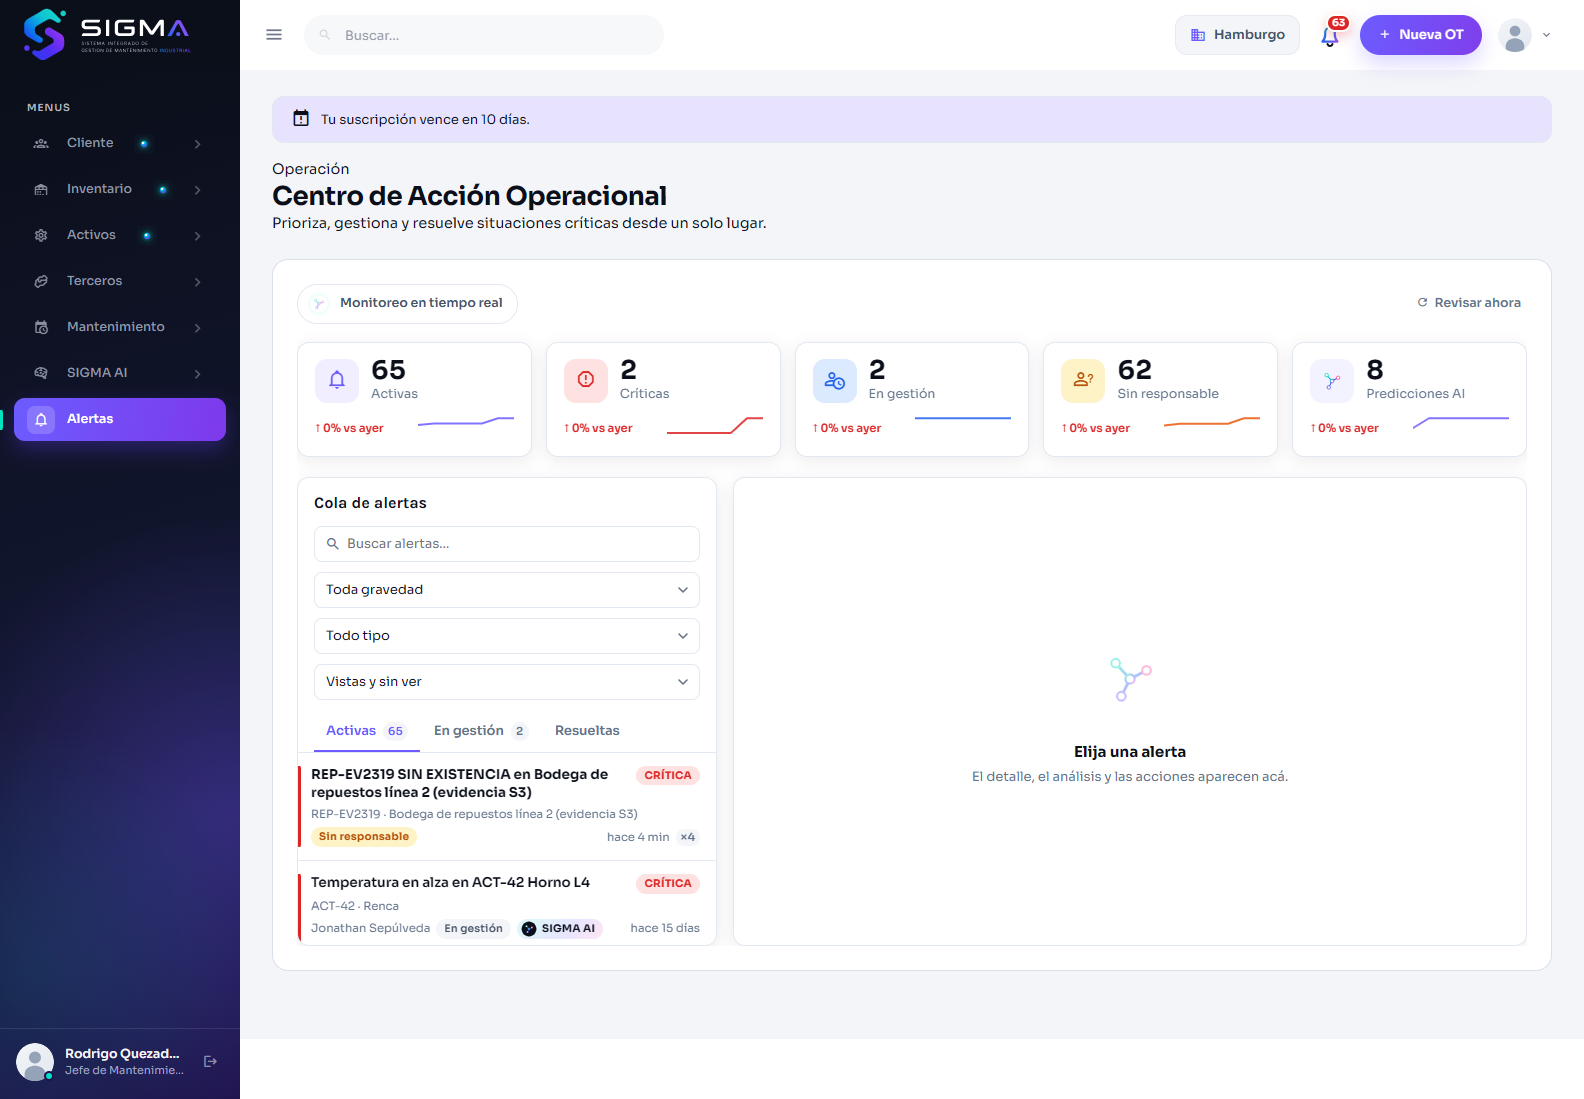
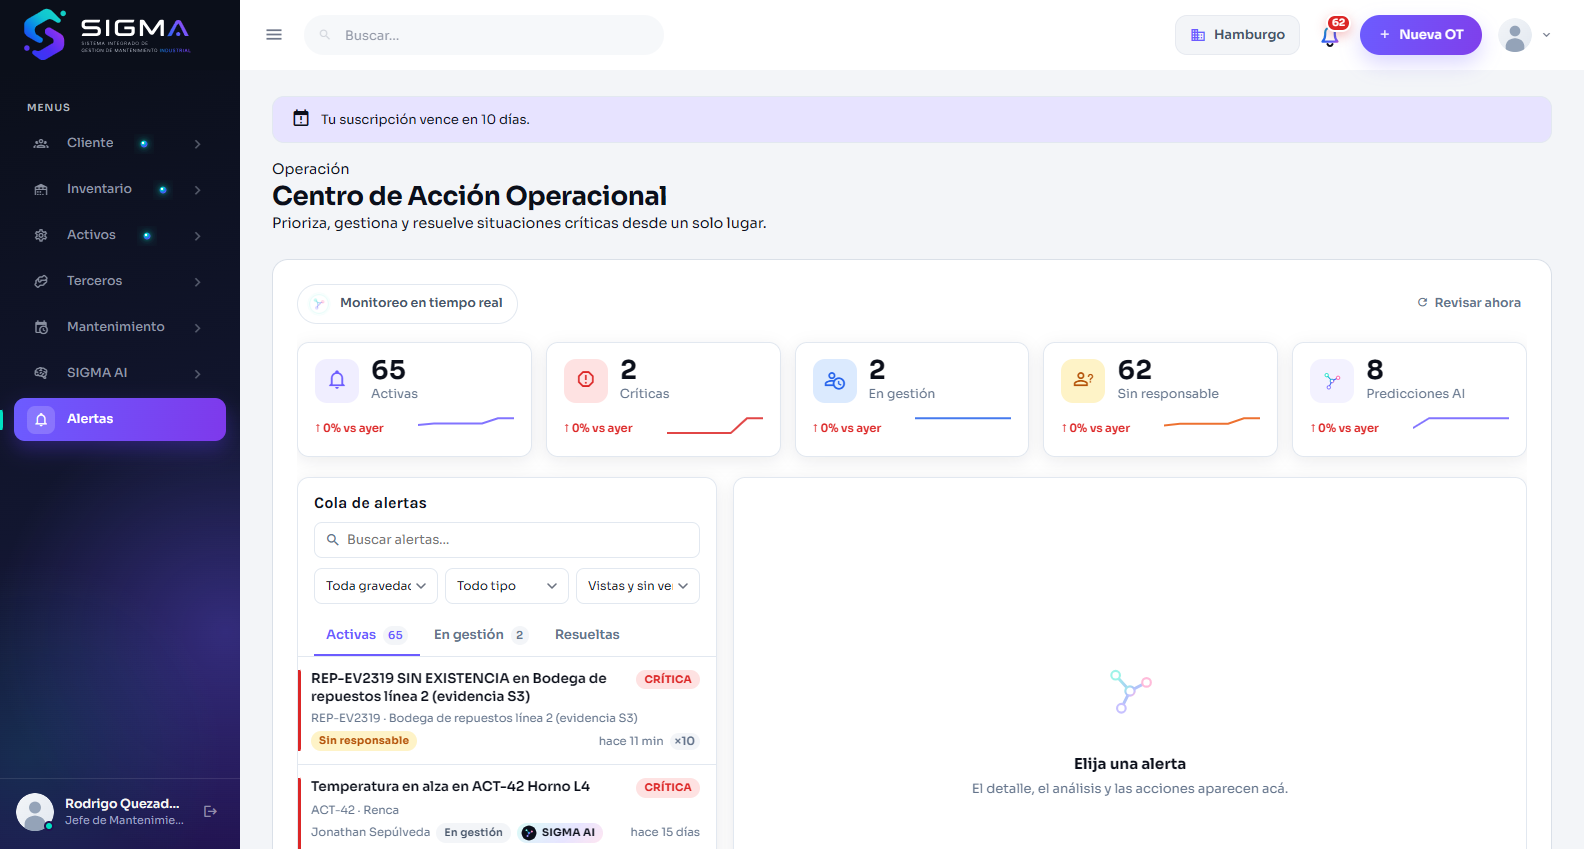
La bandeja de alertas: se limita la lista, no la pantalla
El primer intento forzo el bloque de dos columnas al alto de la ventana y
salio peor: la cabecera de la cola -titulo, buscador, tres desplegables
apilados y pestanas- se comia 260 px, asi que quedaban DOS alertas visibles
al lado de un panel de detalle vacio y altisimo.

Ahora se limita lo que de verdad crece y se recupera el espacio de donde
sobraba:
- Los tres filtros pasan a una sola fila. Apilados gastaban 120 px de alto
  que le faltaban a la lista; la cabecera baja de ~260 a 138 px.
- La lista tiene su propio tope -min(58vh, 620px)- y desplaza por dentro, asi
  que la pagina deja de medir varias pantallas.
- El detalle queda pegado arriba mientras se recorre la lista y mide lo mismo
  que la lista: al dejar que midiera su contenido, "Elija una alerta" era una
  tarjeta corta al lado de una columna larga y se leia como que faltaba algo.
  Hizo falta escribirlo como `.sg-cao > .sg-detalle` porque mas arriba hay un
  `min-height: 0` con esa misma especificidad que ganaba.

Se retira el calculo de alto por ventana que habia quedado en el JS.

diff --git a/Web/Intranet/Css/LookAndFeel/sigma-notificaciones.css b/Web/Intranet/Css/LookAndFeel/sigma-notificaciones.css
@@ -2821,44 +2821,53 @@
 .sg-cliente-op.is-actual { background: #f3f1ff; font-weight: 700; }
 .sg-cliente-op.is-actual .mdi-check { visibility: visible; }
 
+}
+
 /* ============================================================================
-   LA BANDEJA DE ALERTAS OCUPA LA VENTANA, NO LA ESTIRA
+   LA BANDEJA DE ALERTAS: SE LIMITA LA LISTA, NO LA PANTALLA
 
-   Con sesenta y cinco alertas la página medía varias pantallas: elegir una
-   de abajo y leer su detalle obligaba a subir, y los indicadores de arriba
-   se perdían de vista. Ahora el bloque mide lo que queda de ventana y lo que
-   se desplaza es cada columna por dentro.
+   El problema era que con sesenta y cinco alertas la cola crecía sin fin y la
+   página medía varias pantallas: elegir una de abajo y leer su detalle
+   obligaba a subir, y los indicadores se perdían de vista.
 
-   El alto lo calcula el navegador y lo escribe en `--sg-cao-alto`
-   (sigma-notificaciones-cao.js): depende de si hay aviso de suscripción y de
-   cuánto ocupen los filtros, y eso no se puede adivinar desde la hoja.
+   El primer intento fue forzar el bloque entero al alto de la ventana. Salió
+   peor: la cabecera de la cola -título, buscador, tres desplegables y
+   pestañas- se comía 260 px, así que quedaban dos alertas visibles al lado de
+   un panel de detalle vacío y altísimo.
+
+   Acá se limita lo que efectivamente crece —la lista— y se recupera espacio
+   de donde sobraba:
+
+   1. Los tres filtros en una fila. Apilados gastaban 120 px de alto que no
+      eran de nadie.
+   2. La lista tiene su tope y desplaza por dentro.
+   3. El detalle se queda pegado arriba mientras uno recorre la lista.
    ============================================================================ */
-.sg-cao {
-    height: var(--sg-cao-alto, calc(100vh - 270px));
-    /* El piso es bajo a proposito: con la cabecera de indicadores y filtros
-       ocupando casi 480 px, un minimo de 420 empujaba el bloque fuera de la
-       ventana y la pagina volvia a desplazarse. Bajo este alto las columnas
-       se apilan por la media query y la pagina scrollea de corrido, que es
-       lo correcto cuando no hay sitio para dos paneles. */
-    min-height: 300px;
-    align-items: stretch;
+
+/* ---- Los filtros, en una fila ---- */
+.sg-cola-cab {
+    display: grid;
+    grid-template-columns: 1fr;
+    gap: 9px;
+    padding: 14px 14px 10px;
+}
+.sg-cola-cab .sg-cola-titulo { margin: 0; }
+.sg-cola-buscar { width: 100%; }
+.sg-cola-filtros {
+    display: grid;
+    grid-template-columns: repeat(3, minmax(0, 1fr));
+    gap: 7px;
+}
+.sg-cola-cab .sg-select {
+    width: 100%;
+    min-width: 0;
+    padding-right: 26px;
+    font-size: 12px;
 }
 
-.sg-cola,
-.sg-detalle {
-    display: flex;
-    flex-direction: column;
-    min-height: 0;
-    overflow: hidden;
-}
-
-/* La cabecera de la cola -título, buscador y filtros- se queda fija y solo
-   corre la lista: filtrar mientras se busca es el gesto más repetido de esta
-   pantalla. */
-.sg-cola-cab { flex: 0 0 auto; }
+/* ---- La lista: tope propio y su barra ---- */
 .sg-cola-lista {
-    flex: 1 1 auto;
-    min-height: 0;
+    max-height: min(58vh, 620px);
     overflow-y: auto;
     overscroll-behavior: contain;
     scrollbar-color: #c9c1f6 transparent;
@@ -2867,31 +2876,30 @@
 .sg-cola-lista::-webkit-scrollbar { width: 6px; }
 .sg-cola-lista::-webkit-scrollbar-thumb { border-radius: 99px; background: #cbc4ed; }
 
-/* El detalle también: con la línea de tiempo y el análisis predictivo es más
-   largo que la ventana en cuanto la alerta tiene historia. */
-.sg-detalle {
-    overflow-y: auto;
-    overscroll-behavior: contain;
-    scrollbar-color: #c9c1f6 transparent;
-    scrollbar-width: thin;
-}
-.sg-detalle::-webkit-scrollbar { width: 6px; }
-.sg-detalle::-webkit-scrollbar-thumb { border-radius: 99px; background: #cbc4ed; }
+/* ---- El detalle acompaña ----
+   Pegado arriba mientras se recorre la lista: sin esto, elegir la alerta
+   cuarenta dejaba el detalle fuera de la pantalla y había que volver a subir
+   para leerlo. */
+@media (min-width: 1101px) {
+    .sg-cao { align-items: start; }
+    /* Con `.sg-detalle` a secas no alcanza: mas arriba hay un
+       `.sg-cao > .sg-detalle { min-height: 0 }` que gana por especificidad y
+       dejaba el panel midiendo su contenido. */
+    .sg-cao > .sg-detalle {
+        position: sticky;
+        top: 14px;
 
-/* En pantallas bajas o en móvil el alto fijo estorba: ahí las dos columnas
-   se apilan y la página vuelve a desplazarse de corrido, que es lo correcto
-   cuando no hay espacio para dos paneles. */
-/* El alto fijo pide sitio de verdad: sobre la bandeja hay casi 480 px de
-   indicadores, pestañas y filtros, así que por debajo de 860 px de ventana
-   la cola quedaría en una franja de dos alertas, que es peor que desplazar.
-   Ahí las columnas se apilan y la página vuelve a correr de corrido. */
-@media (max-width: 1100px), (max-height: 860px) {
-    .sg-cao { height: auto !important; min-height: 0; }
-    .sg-cola, .sg-detalle { overflow: visible; }
-    .sg-cola-lista { overflow-y: visible; max-height: none; }
-}
-
-/* Y aun con sitio, la cola nunca baja de cinco alertas visibles. */
-@media (min-width: 1101px) and (min-height: 861px) {
-    .sg-cola-lista { min-height: 260px; }
+        /* El mismo alto que el tope de la lista: al dejar que midiera su
+           contenido, el panel vacío ("Elija una alerta") quedaba como una
+           tarjeta corta al lado de una lista larga y se leía como que
+           faltaba algo. Las dos columnas se ven como dos paneles. */
+        min-height: min(58vh, 620px);
+        max-height: calc(100vh - 28px);
+        overflow-y: auto;
+        overscroll-behavior: contain;
+        scrollbar-color: #c9c1f6 transparent;
+        scrollbar-width: thin;
+    }
+    .sg-cao > .sg-detalle::-webkit-scrollbar { width: 6px; }
+    .sg-cao > .sg-detalle::-webkit-scrollbar-thumb { border-radius: 99px; background: #cbc4ed; }
 }

diff --git a/Web/Intranet/Js/sigma-notificaciones-cao.js b/Web/Intranet/Js/sigma-notificaciones-cao.js
@@ -259,10 +259,6 @@
 
                 reemplazar(nuevoRoot, '.sg-detalle');
 
-                /* La cabecera pudo cambiar de alto -los indicadores o el
-                   aviso de suscripcion- y el bloque mide desde donde empieza
-                   hasta el borde de la ventana. */
-                alto();
 
                 var panel = uno('.sg-detalle', root);
                 if (panel) panel.removeAttribute('data-sg-esqueleto');
@@ -430,44 +426,6 @@
     }
 
 
-    /* ======================================================================
-       EL ALTO DE LA BANDEJA
-
-       El bloque de dos columnas ocupa desde donde empieza hasta el borde de
-       la ventana, menos un respiro. No se puede escribir como un `calc` fijo
-       en la hoja porque lo de arriba cambia: el aviso de suscripcion aparece
-       y desaparece, y los filtros se reparten en una o dos lineas segun el
-       ancho.
-
-       Se recalcula al cargar, al redimensionar y cuando el panel se repinta
-       por AJAX, que es cuando la cabecera puede cambiar de alto.
-       ====================================================================== */
-    function alto() {
-        var cao = document.querySelector('.sg-cao');
-        if (!cao) return;
-
-        /* En pantallas angostas o bajas las columnas se apilan y la hoja
-           devuelve el alto automatico: aca no hay que calcular nada. */
-        if (window.innerWidth <= 1100 || window.innerHeight <= 860) {
-            cao.style.removeProperty('--sg-cao-alto');
-            return;
-        }
-
-        var arriba = cao.getBoundingClientRect().top + window.scrollY;
-
-        /* Lo que viene DESPUES del bloque -el pie de la pagina y su margen-
-           tambien ocupa ventana. Sin descontarlo el bloque llegaba justo al
-           borde y la pagina seguia desplazandose ese pedazo. */
-        var debajo = document.documentElement.scrollHeight - (arriba + cao.offsetHeight);
-        if (!(debajo > 0) || debajo > 400) debajo = 24;
-
-        var libre = window.innerHeight - arriba + window.scrollY - debajo;
-
-        /* El piso acompana al de la hoja: por debajo de esto las columnas se
-           apilan y la pagina vuelve a desplazarse de corrido. */
-        cao.style.setProperty('--sg-cao-alto', Math.max(420, Math.round(libre)) + 'px');
-    }
-
     function ejecutarAccion(accion) {
         if (accion === 'limpiar-filtros') {
             limpiarFiltros();
@@ -616,10 +574,7 @@
         root.addEventListener('change', cambio);
         root.addEventListener('input', entrada);
 
-        window.sigmaNotificaciones = { refrescar: refrescar, alto: alto };
-
-        alto();
-        window.addEventListener('resize', alto);
+        window.sigmaNotificaciones = { refrescar: refrescar };
     }
 
     if (document.readyState === 'loading') document.addEventListener('DOMContentLoaded', boot);
